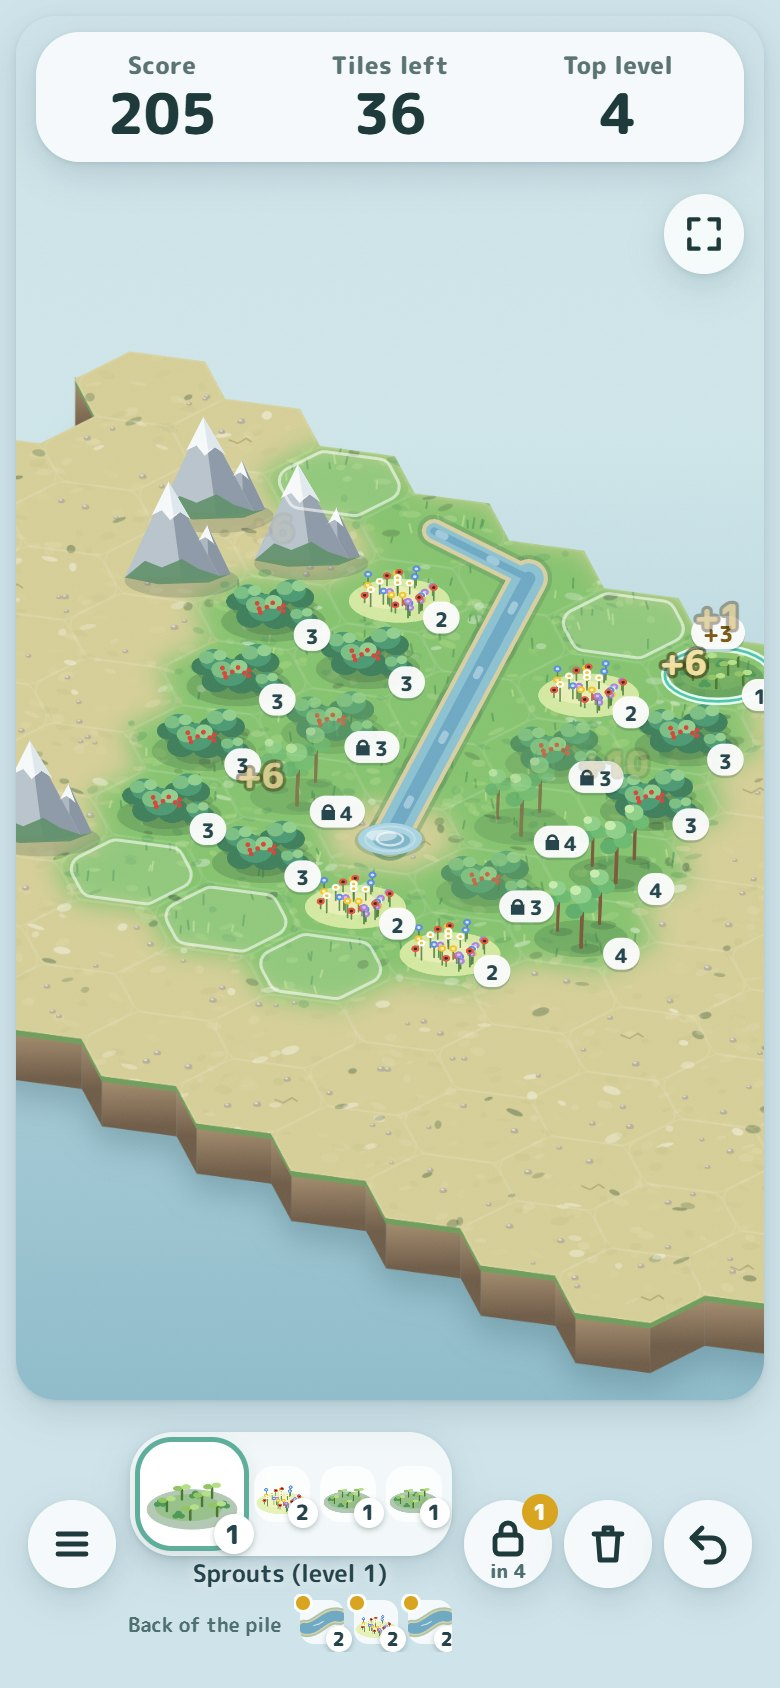
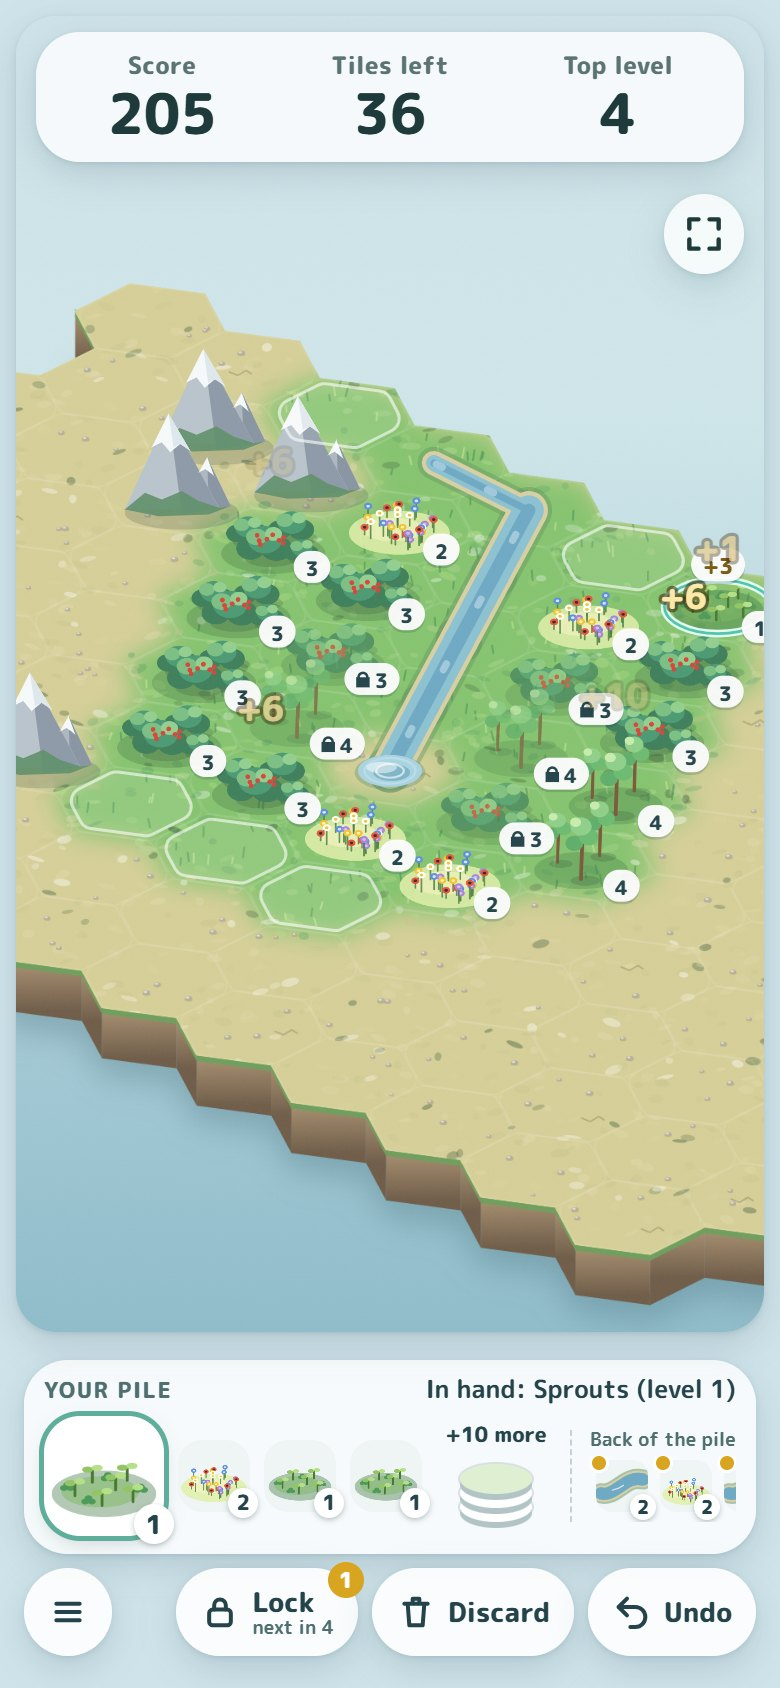
LOU-298: Flowgrow, the pile is easy to find
Dan: "where's the tile pile?" It was a small row of pictures between the
buttons. Now it runs across the bottom in its own panel, labelled Your
pile, front to back: the tile in hand (named), the next 3, the rest of
the stack with its count, then the copies banked by locks. Menu, Lock,
Discard and Undo sit in a row under it, with their words.

sw.js v92. Nothing in the river game changes.

diff --git a/flowgrow.js b/flowgrow.js
@@ -270,7 +270,8 @@ if (typeof document === "undefined" || G.FLOWGROW_SIM) return;
 // ====================================================================================================================
 // Part 2: the page. A quick prototype (Dan, Nov 19: "just make a quick MVP to prototype"): the island, the river, the pile
 // and the seven levels, in Flow Tile's hexes and colours. The projection, the land painting and the tree painters are
-// trimmed copies from play.js. Locking (LOU-299) has its button, lock mode, a confirm card and the banked row.
+// trimmed copies from play.js. The pile runs across the bottom, front to back (Dan, Nov 19: "where's the tile pile?").
+// Locking (LOU-299) has its button, lock mode, a confirm card and the banked copies at the back of the pile.
 // Not built yet: Tuning, sound, the settings sheet and the painterly extras.
 // ====================================================================================================================
 const SW_URL = new URL("sw.js", document.currentScript.src).href; // sw.js sits next to this file
@@ -478,17 +479,19 @@ function say(t, warn) { const m = $("msg"); m.textContent = t || ""; m.classList
 function tileEl(t, px, cls) { const el = document.createElement("div"); el.className = "fgt " + cls + (t.c ? " copy" : ""); el.title = tileText(CFG, t) + (t.c ? ", a copy" : ""); el.appendChild(tileIcon(t, px));
   if (t.k === "h" || t.l > 1) { const b = document.createElement("i"); b.className = "fgl"; b.textContent = t.l; el.appendChild(b) } return el }
 function drawPile() { const q = $("queue"), small = innerWidth < 380; q.textContent = "";
-  if (S.q[0]) { q.appendChild(tileEl(S.q[0], small ? 46 : 52, "now")); for (const t of S.q.slice(1, 1 + CFG.queueShown)) q.appendChild(tileEl(t, small ? 23 : 28, "")) }
+  if (S.q[0]) { q.appendChild(tileEl(S.q[0], small ? 54 : 60, "now")); for (const t of S.q.slice(1, 1 + CFG.queueShown)) q.appendChild(tileEl(t, small ? 32 : 36, "")) }
   else { const e = document.createElement("span"); e.className = "fgempty"; e.textContent = S.over ? "Run over" : "Pile empty"; q.appendChild(e) }
-  tx("hName", S.q[0] ? tileText(CFG, S.q[0]) + (S.q[0].c ? " · copy" : "") : "");
-  const list = $("bankList"); $("bank").hidden = !S.bank.length; list.textContent = ""; for (const t of S.bank) list.appendChild(tileEl(t, 22, "")) } // the copies waiting at the back, in order
+  tx("hName", S.q[0] ? "In hand: " + tileText(CFG, S.q[0]) + (S.q[0].c ? ", a copy" : "") : "");
+  const more = CFG.stackSize === 0 ? Infinity : CFG.stackSize - S.dealt + Math.max(0, S.q.length - 1 - CFG.queueShown); // the rest of the stack, behind the tiles shown
+  $("stack").hidden = !(more > 0); tx("stackN", more === Infinity ? "many more" : "+" + more + " more");
+  const list = $("bankList"); $("bank").hidden = !S.bank.length; list.textContent = ""; for (const t of S.bank) list.appendChild(tileEl(t, 26, "")) } // the copies waiting at the back, in order
 function sync() { opts = options(S, 0); landSig = [...reachOf(S)].join(";");
   const waiting = !S.q.length && !S.over; // the pile is empty but a lock would still bank a copy: lock, or end the run
   if (S.over || !hasLock(S)) { lockMode = false; lockSel = null } else if (waiting) lockMode = true;
   lockList = lockMode ? [...Object.keys(S.h), ...Object.keys(S.r)].map(k => GRID.at[k]).filter(p => lockable(S, p)).map(p => ({p, n:copiesOf(S, p).copies.length})) : [];
   tx("hScore", S.score); tx("hLeft", left(S) === Infinity ? "∞" : left(S)); tx("hTop", S.top || "–");
   $("undoBtn").disabled = !S.moves.length; $("discardBtn").disabled = S.over || !S.q.length; drawPile();
-  { const lb = $("lockBtn"); lb.hidden = !CFG.lockEnabled; lb.classList.toggle("on", lockMode); lb.classList.toggle("none", !hasLock(S)); tx("lockN", CFG.lockEvery === 0 ? "∞" : S.locks); tx("lockIn", CFG.lockEvery > 0 ? "in " + (CFG.lockEvery - S.toLock) : "") }
+  { const lb = $("lockBtn"); lb.hidden = !CFG.lockEnabled; lb.classList.toggle("on", lockMode); lb.classList.toggle("none", !hasLock(S)); tx("lockN", CFG.lockEvery === 0 ? "∞" : S.locks); tx("lockIn", CFG.lockEvery > 0 ? "next in " + (CFG.lockEvery - S.toLock) : "") }
   $("endq").hidden = !waiting || !!lockSel; $("lockq").hidden = !lockSel; if (lockSel) lockCard();
   if (S.over && !wonShown) result(); if (!S.over) wonShown = false; $("win").hidden = !S.over; $("app").classList.toggle("won", S.over);
   mem.set("run.v2", S.over ? null : JSON.stringify({seed:S.seed, moves:S.moves, at:Date.now()})); draw() }
@@ -501,13 +504,13 @@ function result() { wonShown = true; const best = +mem.get("best") || 0; if (S.s
 
 // ---------- a run: new, saved after every move, rebuilt from its seed and moves on reload (a finished or day-old run starts fresh)
 const urlSeed = new URLSearchParams(location.search).get("seed");
-function newRun() { S = fresh(CFG, urlSeed != null && urlSeed !== "" ? urlSeed : Math.floor(Math.random() * 1e9)); for (const k in pops) delete pops[k]; fx.length = 0; lockMode = false; lockSel = null; say("Tap the green land to plant."); sync() }
+function newRun() { S = fresh(CFG, urlSeed != null && urlSeed !== "" ? urlSeed : Math.floor(Math.random() * 1e9)); for (const k in pops) delete pops[k]; fx.length = 0; lockMode = false; lockSel = null; say("Tap green land to place the tile in hand."); sync() }
 function load() { try { const d = JSON.parse(mem.get("run.v2") || "null"); if (!d || !Array.isArray(d.moves) || Date.now() - d.at > 12 * 3600e3) return false; S = replay(CFG, d.seed, d.moves); return !S.over } catch (_) { return false } }
 function tap(p) { if (!S || S.over || !p) return;
   if (lockMode) { if (!lockable(S, p)) { say(key(p) in S.lk ? "That tile is locked." : "Pick a habitat or a river tile.", true); return } lockSel = p; say(""); sync(); return }
-  const res = place(S, 0, p);
+  const had = S.locks, res = place(S, 0, p);
   if (!res) { say(why(S, 0, p), true); return }
-  pops[key(p)] = now(); if (res.pts) fx.push({p, text:"+" + res.pts, t0:now(), up:TALL[Math.min(res.l, 7)]}); say(""); sync() }
+  pops[key(p)] = now(); if (res.pts) fx.push({p, text:"+" + res.pts, t0:now(), up:TALL[Math.min(res.l, 7)]}); say(S.locks > had ? "You earned a lock. Tap Lock to use it." : ""); sync() }
 function undo() { if (!S.moves.length) return; S = replay(CFG, S.seed, S.moves.slice(0, -1)); lockMode = false; lockSel = null; say("Stepped back."); sync() }
 async function copyText(t) { try { await navigator.clipboard.writeText(t); return true } catch (_) {} try { const a = document.createElement("textarea"); a.value = t; a.style.cssText = "position:fixed;opacity:0"; document.body.appendChild(a); a.select(); const ok = document.execCommand("copy"); a.remove(); return ok } catch (_) { return false } }
 

diff --git a/flowgrow.css b/flowgrow.css
@@ -1,35 +1,53 @@
 /* Flowgrow (LOU-298): only what play.css doesn't cover. The page links ../play.css for the board, the top bar, the menu
-   sheet and the result sheet, and this file adds the pile in the bottom bar and the list of levels in the menu. */
+   sheet and the result sheet, and this file adds the pile and its buttons at the bottom and the list of levels in the menu. */
 .fg .stats{grid-template-columns:1fr 1fr 1fr}
-.fg .actions{gap:6px;align-items:center}
-.fg button.bbtn{width:44px;height:44px}
+.fg.app .actions{flex-direction:column;align-items:stretch;gap:7px;padding:6px 4px 6px}
 
-/* the pile: the tile in hand (large) and the next tiles (small). "now", not "hand": play.css uses .hand for its pointer */
-.fgpile{flex:1;min-width:0;display:grid;gap:2px;justify-items:center}
-.fgq{display:flex;align-items:center;justify-content:center;gap:5px;min-height:58px;padding:2px 5px;border-radius:22px;background:rgba(255,255,255,.72);box-shadow:var(--soft)}
-.fgt{position:relative;flex:none;display:grid;place-items:center;width:28px;height:28px;border-radius:10px;background:rgba(255,255,255,.75)}
+/* the pile, across the bottom, front to back: the tile in hand (large, ringed), the next tiles, the rest of the stack with
+   its count, then the copies banked by locks. "now", not "hand": play.css uses .hand for its pointer */
+.fgpile{display:grid;gap:5px;min-width:0;padding:7px 10px 8px;border-radius:22px;background:rgba(255,255,255,.84);box-shadow:var(--soft)}
+.fgcap{display:flex;justify-content:space-between;align-items:baseline;gap:10px;min-width:0}
+.fgcap b{flex:none;font:800 11px/1.2 var(--hand);letter-spacing:.07em;text-transform:uppercase;color:#4f6f70}
+.fgcap span{min-width:0;font:700 12.5px/1.2 var(--hand);color:#24434a;white-space:nowrap;overflow:hidden;text-overflow:ellipsis}
+.fgtray{display:flex;align-items:center;gap:9px;min-width:0;min-height:62px}
+.fgq{display:flex;align-items:center;gap:7px;flex:none}
+.fgt{position:relative;flex:none;display:grid;place-items:center;width:36px;height:36px;border-radius:12px;background:#eef5f4}
 .fgt canvas{position:static;display:block;border-radius:inherit}
-.fgt.now{width:52px;height:52px;border-radius:16px;background:#fff;box-shadow:0 0 0 2.5px #5fae9c,0 4px 10px rgba(30,60,60,.18)}
+.fgt.now{width:60px;height:60px;border-radius:18px;background:#fff;box-shadow:0 0 0 2.5px #5fae9c,0 4px 10px rgba(30,60,60,.18)}
 .fgl{position:absolute;right:-4px;bottom:-3px;min-width:15px;height:15px;padding:0 3px;box-sizing:border-box;border-radius:999px;background:#fff;color:#24434a;font:800 10.5px/15px var(--hand);font-style:normal;text-align:center;box-shadow:0 1px 3px rgba(30,60,60,.35)}
 .fgt.now .fgl{right:-5px;bottom:-4px;min-width:20px;height:20px;font-size:13px;line-height:20px}
-.fgname{font:700 12px/1.2 var(--hand);color:#24434a;white-space:nowrap;text-shadow:0 0 6px rgba(255,255,255,.9)}
-.fgempty{padding:0 10px;font:800 13px var(--hand);color:#4f6f70;white-space:nowrap}
-@media (max-width:379px){.fgq{gap:3px;padding:2px 3px}.fgt{width:23px;height:23px}.fgt.now{width:46px;height:46px}}
+.fgempty{padding:0 6px;font:800 14px var(--hand);color:#4f6f70;white-space:nowrap}
+/* the rest of the stack: three tiles lying on each other, and how many more there are */
+.fgstack{position:relative;flex:none;width:56px;height:54px;text-align:center}
+.fgstack[hidden]{display:none}
+.fgstack b{display:block;font:800 10.5px/1.2 var(--hand);color:#24434a;white-space:nowrap}
+.fgstack i{position:absolute;left:10px;width:36px;height:15px;border-radius:50%;background:#fff;box-shadow:0 3px 0 #b3c4c6,0 0 0 1px rgba(36,67,74,.14)}
+.fgstack i:nth-of-type(1){top:35px}.fgstack i:nth-of-type(2){top:28px}.fgstack i:nth-of-type(3){top:21px;background:#dff0d2}
+
+/* the buttons under the pile: Menu on the left; Lock, Discard and Undo on the right, each with its word */
+.fgbtns{display:flex;align-items:center;gap:7px;min-width:0}
+.fgsp{flex:1}
+.fg button.fgb{position:relative;flex:none;display:flex;align-items:center;gap:6px;height:44px;padding:0 12px;border:0;border-radius:999px;background:rgba(255,255,255,.9);color:#24434a;box-shadow:var(--soft);font:800 13.5px/1 var(--hand);white-space:nowrap}
+.fg button.fgb svg{flex:none;width:20px;height:20px;fill:none;stroke:currentColor;stroke-width:2.4;stroke-linecap:round;stroke-linejoin:round}
+.fg button.fgb.round{width:44px;padding:0;justify-content:center}
+.fg button.fgb:disabled{opacity:.4}
+.fg button.fgb span{display:grid;gap:2px;justify-items:start}
+.fg button.fgb small{font:700 9.5px/1 var(--hand);color:#4f6f70}
 
 /* locking (LOU-299): the Lock button with the locks held and the tiles until the next one, a mark on copies, and the
-   banked row: the copies waiting at the back of the pile, in order (it scrolls sideways) */
-.fglock svg{margin-top:-5px}
-.fglock small{position:absolute;left:0;right:0;bottom:3px;font:800 9.5px/1 var(--hand);color:#4f6f70;text-align:center;white-space:nowrap}
+   copies waiting at the back of the pile, in order (they scroll sideways) */
 .fglock .ubadge{background:#d9a520}
-.fglock.none{color:#9aa9ab}.fglock.none .ubadge{background:#9aa9ab}
-.fglock.on{background:#fff3cf;box-shadow:0 0 0 2.5px #d9a520,var(--soft)}
+.fglock.none{color:#8b9b9d}.fglock.none .ubadge{background:#9aa9ab}
+.fg button.fglock.on{background:#fff3cf;box-shadow:0 0 0 2.5px #d9a520,var(--soft)}
 .fgt.copy::before{content:"";position:absolute;left:-2px;top:-2px;width:7px;height:7px;border-radius:50%;background:#d9a520;box-shadow:0 0 0 1.5px #fff}
-.fgbank{display:flex;align-items:center;gap:6px;max-width:100%;min-width:0;padding:1px 0 2px}
+.fgbank{flex:1;min-width:0;display:grid;gap:3px;align-content:center;padding-left:9px;border-left:1.5px dashed #c3d2d4}
 .fgbank[hidden]{display:none}
-.fgbank>span{flex:none;font:700 10px/1 var(--hand);color:#4f6f70;white-space:nowrap}
-#bankList{display:flex;gap:5px;min-width:0;overflow-x:auto;padding:3px 4px 4px 3px;scrollbar-width:none}
-#bankList .fgt{width:22px;height:22px;border-radius:7px;background:rgba(255,255,255,.8)}
+.fgbank>span{font:700 9.5px/1 var(--hand);color:#4f6f70;white-space:nowrap}
+#bankList{display:flex;gap:6px;min-width:0;overflow-x:auto;padding:2px 5px 5px 3px;scrollbar-width:none}
+#bankList .fgt{width:26px;height:26px;border-radius:8px}
 #bankList .fgl{right:-4px;bottom:-4px;min-width:13px;height:13px;font-size:9.5px;line-height:13px}
+@media (max-width:379px){.fgt{width:32px;height:32px}.fgt.now{width:54px;height:54px}.fgtray{gap:6px}.fgq{gap:5px}.fgstack{width:50px}.fgstack i{left:7px}
+  .fgw{display:none}.fg button.fgbw{width:44px;padding:0;justify-content:center}}
 
 /* the menu: how to play, and the seven levels side by side */
 .fghow{margin:0 4px 10px;font:500 14px/1.4 var(--hand);color:#24434a}

diff --git a/flowgrow/index.html b/flowgrow/index.html
@@ -51,11 +51,22 @@
     </div>
   </div>
   <div class="actions" id="actions">
-    <button type="button" id="menuBtn" class="bbtn" aria-label="Menu"><svg viewBox="0 0 24 24" aria-hidden="true"><path d="M5 7h14M5 12h14M5 17h14"/></svg></button>
-    <div class="fgpile"><div class="fgq" id="queue" aria-label="Your pile"></div><span class="fgname" id="hName"></span><div class="fgbank" id="bank" hidden><span>Back of the pile</span><div id="bankList"></div></div></div>
-    <button type="button" id="lockBtn" class="bbtn fglock" aria-label="Lock a tile"><svg viewBox="0 0 24 24" aria-hidden="true"><rect x="5.500" y="10.500" width="13" height="9.500" rx="2.200"/><path d="M8.500 10.500V8a3.500 3.500 0 017 0v2.500"/></svg><b class="ubadge" id="lockN">0</b><small id="lockIn"></small></button>
-    <button type="button" id="discardBtn" class="bbtn" aria-label="Discard this tile"><svg viewBox="0 0 24 24" aria-hidden="true"><path d="M5 7h14M10 7V4h4v3M7 7l1 13h8l1-13"/></svg></button>
-    <button type="button" id="undoBtn" class="bbtn" aria-label="Undo"><svg viewBox="0 0 24 24" aria-hidden="true"><path d="M9 14L4 9l5-5"/><path d="M4 9h10a6 6 0 010 12h-3"/></svg></button>
+    <!-- the pile, front to back: the tile in hand, the next tiles, the rest of the stack, then the copies banked by locks -->
+    <div class="fgpile" aria-label="Your pile">
+      <div class="fgcap"><b>Your pile</b><span id="hName"></span></div>
+      <div class="fgtray">
+        <div class="fgq" id="queue"></div>
+        <div class="fgstack" id="stack" hidden><b id="stackN"></b><i></i><i></i><i></i></div>
+        <div class="fgbank" id="bank" hidden><span>Back of the pile</span><div id="bankList"></div></div>
+      </div>
+    </div>
+    <div class="fgbtns">
+      <button type="button" id="menuBtn" class="fgb round" aria-label="Menu"><svg viewBox="0 0 24 24" aria-hidden="true"><path d="M5 7h14M5 12h14M5 17h14"/></svg></button>
+      <i class="fgsp"></i>
+      <button type="button" id="lockBtn" class="fgb fglock" aria-label="Lock a tile"><svg viewBox="0 0 24 24" aria-hidden="true"><rect x="5.500" y="10.500" width="13" height="9.500" rx="2.200"/><path d="M8.500 10.500V8a3.500 3.500 0 017 0v2.500"/></svg><span><b>Lock</b><small id="lockIn"></small></span><b class="ubadge" id="lockN">0</b></button>
+      <button type="button" id="discardBtn" class="fgb fgbw" aria-label="Discard this tile"><svg viewBox="0 0 24 24" aria-hidden="true"><path d="M5 7h14M10 7V4h4v3M7 7l1 13h8l1-13"/></svg><b class="fgw">Discard</b></button>
+      <button type="button" id="undoBtn" class="fgb fgbw" aria-label="Undo"><svg viewBox="0 0 24 24" aria-hidden="true"><path d="M9 14L4 9l5-5"/><path d="M4 9h10a6 6 0 010 12h-3"/></svg><b class="fgw">Undo</b></button>
+    </div>
   </div>
   <div class="mwrap" id="menu" hidden><div class="msheet" role="dialog" aria-label="Menu">
     <i class="mgrip" aria-hidden="true"></i>

diff --git a/sw.js b/sw.js
@@ -1,6 +1,6 @@
 // Flow Tile service worker: lets the game load offline after the first visit.
 // Bump VERSION whenever cached files change so old caches are dropped.
-const VERSION = "v91";
+const VERSION = "v92";
 const CACHE = `flowtile-${VERSION}`;
 const LOCAL = ["./", "./level/1/", "./level/2/", "./level/3/", "./level/4/", "./level/5/", "./level/6/", "./level/7/", "./level/8/", "./level/9/", "./level/10/", "./level/11/", "./level/12/", "./level/13/", "./level/14/", "./level/15/", "./level/16/", "./level/17/", "./level/18/", "./level/19/", "./level/20/", "./level/21/", "./level/22/", "./level/23/", "./level/24/", "./extra/fork/", "./extra/dam-builders/", "./extra/snowline/", "./extra/rain-pools/", "./extra/second-thoughts/", "./extra/dry-lightning/", "./extra/high-water/", "./extra/dunes/", "./big/40/", "./levels.js", "./solutions.js", "./settings.js", "./weather-test.config.js", "./weather-test/", "./flowgrow.config.js", "./flowgrow.js", "./flowgrow.css", "./flowgrow/", "./river/", "./settings/", "./spring-hill/", "./perfection/", "./daily/", "./world/", "./custom/", "./generator/", "./tutorial/", "./big/", "./play.js", "./play.css", "./paper.css", "./fonts/fonts.css", "./fonts/mplus-rounded-500.woff2", "./fonts/mplus-rounded-700.woff2", "./fonts/mplus-rounded-800.woff2","./manifest.webmanifest", "./icon-192.png", "./icon-512.png", "./apple-touch-icon.png"];
 

diff --git a/CANON.md b/CANON.md
@@ -329,13 +329,14 @@ Also from Dan: "take the existing hexagon and aesthetics", and "this will be a w
 ### Other instructions from Dan (Nov 19)
 
 - **No city build:** "ignore that patch, as it's using "city" design rather than our eco/nature design". The first build was a city builder, kept in a patch file. The patch was never applied and LOU-297 was canceled. Flowgrow was built from the build spec directly as a nature game. Nothing man-made is on the page: no buildings, and no city words.
+- **The pile is easy to find:** Dan asked "where's the tile pile?" when it was a small row of pictures between the buttons. So the pile now runs across the whole bottom in its own panel, labelled **Your pile**, front to back: the tile in hand (large, ringed, and named: "In hand: Sprouts (level 1)"), the next 3 tiles, a stack with the count still to come ("+76 more"), then the copies banked by locks ("Back of the pile"). Menu, Lock, Discard and Undo sit in a row under it, and Lock, Discard and Undo carry their word.
 - **A quick prototype first:** "make the build faster" and "just make a quick MVP to prototype". So the page is a lean build. What it leaves out is listed under "Not built yet". Don't add polish to it unless Dan asks.
 
 ### What is built (LOU-298)
 
 - **Words:** a tile is a **habitat** or a **river tile**. Putting a habitat on empty land is **planting**. Two habitats of the same level **combine**. A river tile **extends** the river or **widens** it. The **pile** is the tiles still to come, and the large one is the tile **in hand**.
 - **A turn:** tap a tile on the island and the tile in hand goes there. One tap, no confirm. A tile that can't go there gets a one-line message that says why.
-- **Screen:** Score, Tiles left and Top level at the top. Menu, the pile (the tile in hand large, the next 3 small), Discard and Undo at the bottom. Land the tile in hand can be planted on has a faint outline. A habitat it can combine with has a ring and its points ("+6"). A river tile it can widen has a ring that says "wider".
+- **Screen:** Score, Tiles left and Top level at the top. ~~Menu, the pile (the tile in hand large, the next 3 small), Discard and Undo at the bottom.~~ *Changed Nov 19, see "The pile is easy to find" below.* Land the tile in hand can be planted on has a faint outline. A habitat it can combine with has a ring and its points ("+6"). A river tile it can widen has a ring that says "wider".
 - **The seven levels** are painted with the river game's own tree, shrub and flower painters, each bigger and taller than the one before. Every habitat carries a white pill with its level, on the island and in the pile.
 - **The land shows reach:** land within reach of the river is grass, and land outside it is bare ground.
 - **A run** is its seed and its moves. Undo, saving and reload all rebuild it from those, so a tile is never re-rolled. A finished run is never restored, and a run older than 12 hours starts fresh. Add `?seed=123` to the address to replay the same pile.
@@ -348,7 +349,7 @@ Also from Dan: "take the existing hexagon and aesthetics", and "this will be a w
 - **Where copies go:** to the back of the pile, behind every tile still to be dealt and behind copies banked earlier. They are kept as their own list, and "Tiles left" counts them.
 - **A locked tile** can't be combined onto, widened, locked again or copied. It keeps its score and still counts as the top level for dealing.
 - **Copies play like dealt tiles,** with the same rules and the same scoring. A level 2 river copy can only extend, and it reaches 2 tiles out.
-- **Screen:** a **Lock** button in the bottom bar shows the locks held and the tiles until the next one. Tapping it turns lock mode on, and tapping it again turns it off. In lock mode every lockable tile shows how many copies it would bank. Tapping one marks each copy on its neighbour, marks neighbours that are too high, and a card above the bar asks to confirm ("Lock this thicket?"). A locked habitat gets a padlock on its level pill and is painted a little muted. Under the pile, **Back of the pile** lists the banked copies in order.
+- **Screen:** a **Lock** button in the bottom bar shows the locks held and the tiles until the next one. Tapping it turns lock mode on, and tapping it again turns it off. In lock mode every lockable tile shows how many copies it would bank. Tapping one marks each copy on its neighbour, marks neighbours that are too high, and a card above the bar asks to confirm ("Lock this thicket?"). A locked habitat gets a padlock on its level pill and is painted a little muted. At the back of the pile panel, **Back of the pile** lists the banked copies in order.
 - **A lock is a move:** it can be undone, it is saved, and it has a line in the run log. The log marks each placed tile as dealt or copy. The result adds locks used and lost, and copies banked, placed and discarded, with the points from copies.
 - **The six lock values** are in `flowgrow.config.js`: `lockEnabled`, `lockLevelCap`, `lockCopiesGo`, `lockRivers`, `lockEvery`, `lockHold`. With `lockEnabled: false` the game plays exactly as it did before locking.
 
